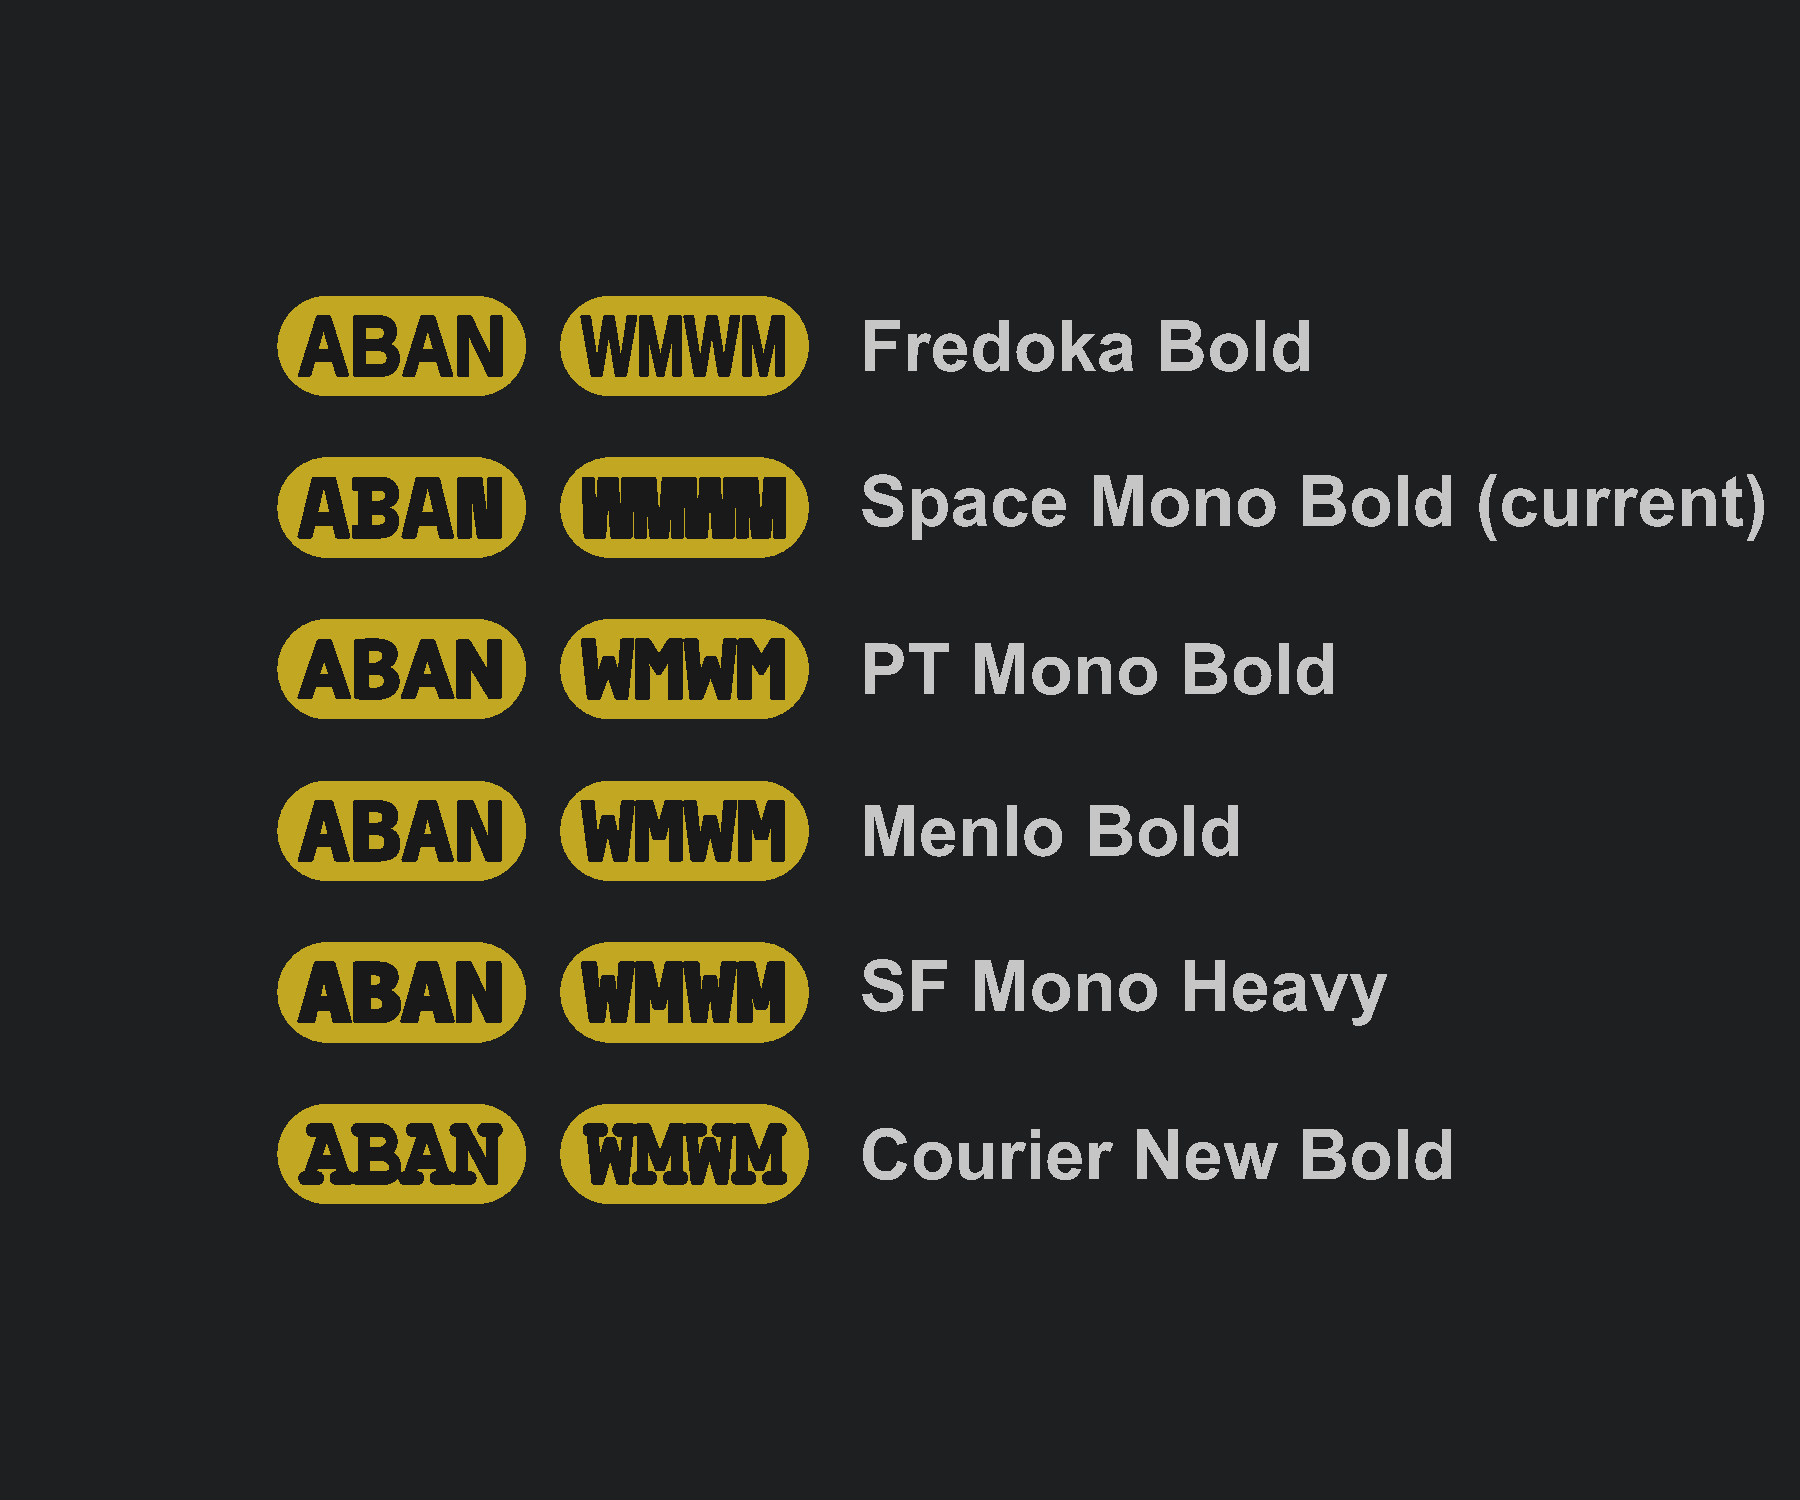
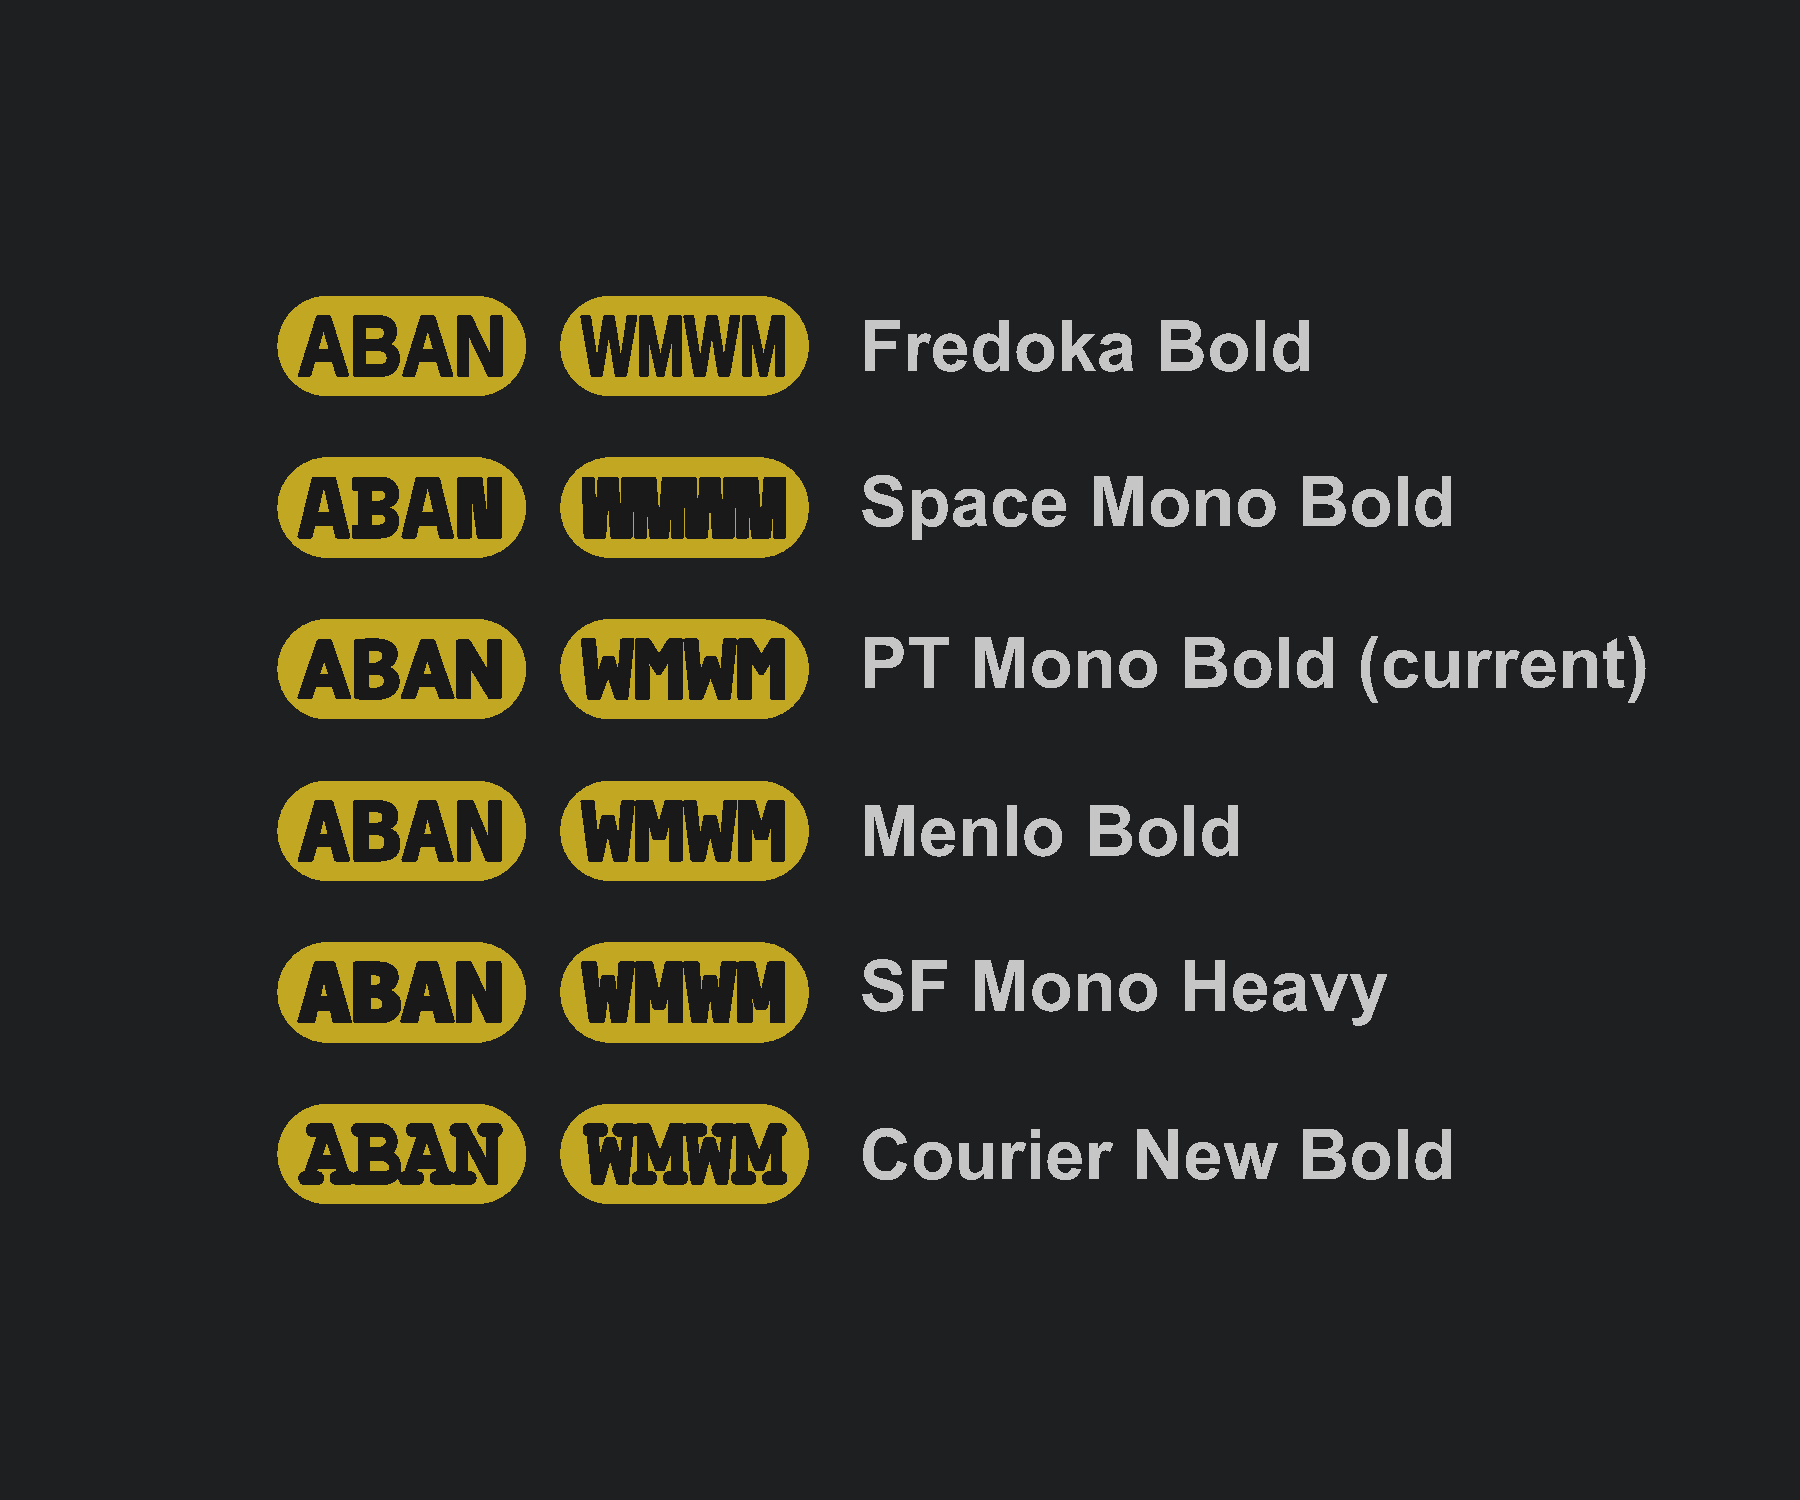
Switch pill lettering to PT Mono Bold

Changed region(s): [[0.8089, 0.3067, 0.9956, 0.368], [0.56, 0.4293, 0.9333, 0.46], [0.4667, 0.3987, 0.5289, 0.46]]

diff --git a/README.md b/README.md
@@ -68,7 +68,7 @@ from what is printed.
 - Vendor-neutral STL output; no slicer-specific project format required
 - Clean individual pills without breakaway-link scars
 - 2.6 mm total thickness: 1.6 mm base plus 1.0 mm raised text
-- Space Mono Bold lettering expanded by 0.12 mm and fitted from its glyph
+- PT Mono Bold lettering expanded by 0.12 mm and fitted from its glyph
   outlines for large type that stays clear of the rounded pill edges
 - 0.4 mm gaps between pills—close together without shared geometry
 - Dedicated 20 mm strip for an approximately 20 × 20 mm prime tower
@@ -79,13 +79,13 @@ from what is printed.
 Requirements:
 
 - [OpenSCAD](https://openscad.org/)
-- [Space Mono](https://fonts.google.com/specimen/Space+Mono), installed with the
+- [PT Mono](https://fonts.google.com/specimen/PT+Mono), installed with the
   Bold style
 - Python 3 only if you want to render batches automatically
 
 ### Font palette
 
-Space Mono Bold is the current production font. This palette compares it with
+PT Mono Bold is the current production font. This palette compares it with
 other installed bold faces using the real pill dimensions, 0.12 mm glyph
 expansion, geometry-aware fitting, and 1.0 mm text extrusion. `WMWM` stresses
 the widest letter combination.
@@ -94,8 +94,8 @@ the widest letter combination.
 
 | Font | Tradeoff |
 |---|---|
-| Space Mono Bold | Current choice; open, geometric, and reproducible |
-| PT Mono Bold | Compact and clear; an excellent alternate |
+| Space Mono Bold | Open, geometric, and heavier than PT Mono |
+| PT Mono Bold | Current choice; compact, clear, and monospaced |
 | Menlo Bold | Crisp and compact, but primarily available on Apple systems |
 | SF Mono Heavy | Very thick strokes, but Apple-specific |
 | Courier New Bold | Widely available with a more traditional appearance |
